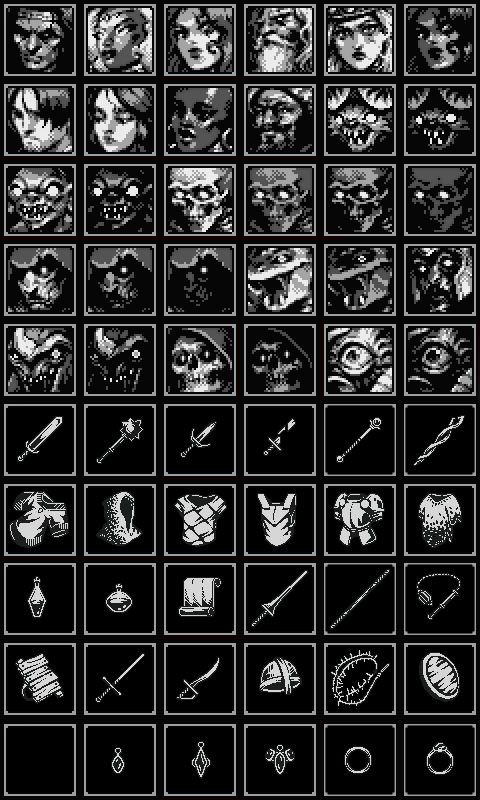
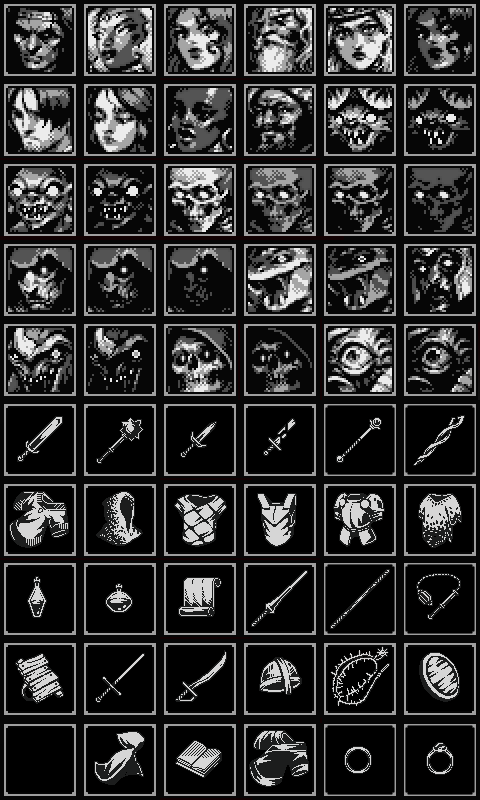
Character sheet layout

diff --git a/Item.cs b/Item.cs
@@ -6,6 +6,7 @@ namespace SINEATER;
 
 public interface IItem : IAbilitySource
 {
+    public (int, int) Picture { get; }
     public string Name { get; }
     public Glyph Glyph { get; }
     public bool CanBeUsed();
@@ -20,6 +21,7 @@ public class Pile : IAbilitySource, IItem
 {
     public List<IItem> Things { get; private set; } = []; 
     
+    public (int, int) Picture => ItemLibrary.EmptyUv;
     public string Name { get; } = "Pile";
     public Glyph Glyph { get; } = Glyph.Bw(1, 1);
     public bool CanBeUsed()
@@ -104,13 +106,15 @@ public class Pile : IAbilitySource, IItem
     }
 }
 
-public class Item(string name) : IItem
+public class Item(string name, (int, int) uv) : IItem
 {
     public string Name => name;
 
-    public Glyph Glyph => Glyph.Bw(0, 0);
+    public virtual (int, int) Picture => (uv.Item1, uv.Item2 + 5);
+    
+    public virtual Glyph Glyph => Glyph.Bw(0, 0);
 
-    public bool CanBeUsed()
+    public virtual bool CanBeUsed()
     {
         return true;
     }
@@ -143,7 +147,7 @@ public class Item(string name) : IItem
         yield break;
     }
 
-    public IEnumerable ApplyItemLanded(CombatMapScreen level, int x, int y)
+    public virtual IEnumerable ApplyItemLanded(CombatMapScreen level, int x, int y)
     {
         if (level.Floor.ContainsKey((x, y)))
         {
@@ -173,7 +177,7 @@ public class Item(string name) : IItem
         yield break;
     }
 
-    public string GetName()
+    public virtual string GetName()
     {
         return Name;
     }
@@ -181,5 +185,69 @@ public class Item(string name) : IItem
     public virtual Glyph GetIcon()
     {
         return Glyph;
+    }
+}
+
+public class ItemStack(Item item, int count) : Item(item.Name, item.Picture)
+{
+    public override (int, int) Picture => item.Picture;
+    public override Glyph Glyph => item.Glyph;
+
+    public override bool CanBeUsed()
+    {
+        if (count == 0) return false;
+        return item.CanBeUsed();
+    }
+
+    public override bool CanBeShattered()
+    {
+        if (count == 0) return false;
+        return item.CanBeShattered();
+    }
+
+    public override IEnumerable ApplyItemUsed(ICharacter character)
+    {
+        if (count == 0) yield break;
+        foreach (var i in item.ApplyItemUsed(character))
+        {
+            yield return i;
+        }
+    }
+
+    public override IEnumerable ApplyItemPickedUp(CombatMapScreen level, int x, int y, ICharacter character)
+    {
+        if (count == 0) yield break;
+        foreach (var i in item.ApplyItemPickedUp(level, x, y, character))
+        {
+            yield return i;
+        }
+    }
+
+    public override IEnumerable ApplyItemLanded(CombatMapScreen level, int x, int y)
+    {
+        if (count == 0) yield break;
+        foreach (var i in item.ApplyItemLanded(level, x, y))
+        {
+            yield return i;
+        }
+    }
+
+    public override IEnumerable ApplyItemShattered(CombatMapScreen level, int x, int y)
+    {
+        if (count == 0) yield break;
+        foreach (var i in item.ApplyItemShattered(level, x, y))
+        {
+            yield return i;
+        }
+    }
+
+    public override string GetName()
+    {
+        return $"{count}x {item.Name}";
+    }
+
+    public override Glyph GetIcon()
+    {
+        return item.Glyph;
     }
 }

diff --git a/CharacterSheetScreen.cs b/CharacterSheetScreen.cs
@@ -54,7 +54,7 @@ public class CharacterSheetScreen : IScreen
         var stack = _game.ScreenStack.ToArray();
         stack[1].Draw(gameTime);
         
-        var start = new Vector2(1, 0);
+        var start = new Vector2(1, 3);
         var end = new Vector2(25, 17);
         _game.Layers["mrmo"].SetRect(start - Vector2.One, end + Vector2.One, ' ');
         _game.Layers["ascii"].SetRect(new Vector2(start.X * 2 - 1, start.Y - 1), new Vector2(end.X * 2 + 1, end.Y + 1), ' ');
@@ -73,41 +73,38 @@ public class CharacterSheetScreen : IScreen
         });
         
         var chr = _game.Party.Characters[_charIndex];
-        _game.Layers["ascii"].Set((int)start.X * 2 + 15, (int)start.Y + 1, $"CHARACTER PROFILE - {chr.Job}");
+        //_game.Layers["ascii"].Set((int)start.X * 2 + 15, (int)start.Y + 1, $"CHARACTER PROFILE - {chr.Job}");
         var prt = chr.GetPortait();
-        _game.Layers["portrait"].Set(0, 0, new Glyph(prt.Item1, prt.Item2, Color.Black, chr.Tint));
+        _game.Layers["portrait"].Set(1, 1, new Glyph(prt.Item1, prt.Item2, Color.Black, chr.Tint));
 
+        var (u, v) = ItemLibrary.EmptyUv;
         if (chr.LeftWeapon is { } lw)
         {
-            var (u, v) = lw.Picture;
-            _game.Layers["porsmol"].Set(1, 2, new Glyph(u, v, Color.Black, chr.Tint));
+            (u, v) = lw.Picture;
         }
-        else
-        {
-            var (u, v) = ItemLibrary.EmptyUv;
-            _game.Layers["porsmol"].Set(1, 2, new Glyph(u, v, Color.Black, chr.Tint));
-        }
+        _game.Layers["porsmol"].Set(1, 2, new Glyph(u, v, Color.Black, chr.Tint));
         
+        (u, v) = ItemLibrary.EmptyUv;
         if (chr.Armor is { } arm)
         {
-            var (u, v) = arm.Picture;
-            _game.Layers["porsmol"].Set(2, 2, new Glyph(u, v, Color.Black, chr.Tint));
+            (u, v) = arm.Picture;
+            
         }
-        else
+        _game.Layers["porsmol"].Set(2, 4, new Glyph(u, v, Color.Black, chr.Tint));
+
+        (u, v) = ItemLibrary.EmptyUv;
+        if (chr.Item is { } item)
         {
-            var (u, v) = ItemLibrary.EmptyUv;
-            _game.Layers["porsmol"].Set(2, 2, new Glyph(u, v, Color.Black, chr.Tint));
+            (u, v) = item.Picture;
+            
         }
-        
+        _game.Layers["porsmol"].Set(3, 4, new Glyph(u, v, Color.Black, chr.Tint));
+
+        (u, v) = ItemLibrary.EmptyUv;
         if (chr.RightWeapon is { } rw)
         {
-            var (u, v) = rw.Picture;
-            _game.Layers["porsmol"].Set(3, 2, new Glyph(u, v, Color.Black, chr.Tint));
+            (u, v) = rw.Picture;
         }
-        else
-        {
-            var (u, v) = ItemLibrary.EmptyUv;
-            _game.Layers["porsmol"].Set(3, 2, new Glyph(u, v, Color.Black, chr.Tint));
-        }
+        _game.Layers["porsmol"].Set(4, 2, new Glyph(u, v, Color.Black, chr.Tint));
     }
 }

diff --git a/PartyMember.cs b/PartyMember.cs
@@ -165,6 +165,7 @@ public abstract class Character : ICharacter
     public Weapon? LeftWeapon = null;
     public Weapon? RightWeapon = null;
     public Armor? Armor = null;
+    public IItem? Item = null;
     public Ability? Ability = null;
     public readonly List<Trait> Traits = [];
     public Inventory Inventory { get; set; } = new();
@@ -235,7 +236,6 @@ public abstract class Character : ICharacter
     {
         return Job.ToString();
     }
-
     
     public virtual (int, int) GetPortait()
     {
@@ -280,10 +280,20 @@ public abstract class Character : ICharacter
     {
         Armor = armor;
     }
+    
+    public void EquipItem(IItem? item)
+    {
+        Item = item;
+    }
 
     public void RemoveArmor()
     {
         this.EquipArmor(null);
+    }
+    
+    public void RemoveItem()
+    {
+        this.EquipItem(null);
     }
 
     public IEnumerable AsAttacker_ApplyDiceCountModifiers(CombatFlow flow)
@@ -430,7 +440,7 @@ public class PartyMember : Character
 
 public record struct Party
 {
-    private static readonly Color[] Colors = [Color.Yellow, Color.GreenYellow, Color.CornflowerBlue, Color.Crimson];
+    private static readonly Color[] Colors = [Color.Yellow, Color.GreenYellow, Color.CornflowerBlue, Color.Coral];
     public PartyMember[] Characters = new PartyMember[4];
 
     public Party(ActionPoints AP)
@@ -483,8 +493,7 @@ public record struct Party
                     Characters[i].EquipLeftWeapon(ItemLibrary.NeedleSword);
                     Characters[i].EquipRightWeapon(ItemLibrary.ScrollTome);
                     Characters[i].EquipArmor(ItemLibrary.BreastPlate);
-                    for (var n = 0; n < 3; n++)
-                        Characters[i].Inventory.Put(new PotionBloodReliquary());
+                    Characters[i].EquipItem(new ItemStack(new PotionBloodReliquary(), 3));
                     break;
                 case ECharacterClass.Priest:
                     Characters[i].EquipLeftWeapon(ItemLibrary.ThornWhip);
@@ -492,8 +501,11 @@ public record struct Party
                     Characters[i].Stats.Vigor++;
                     break;
                 case ECharacterClass.Thief:
-                    Characters[i].EquipLeftWeapon(ItemLibrary.BrokenSword);
+                    Characters[i].EquipLeftWeapon(ItemLibrary.Gladius);
+                    Characters[i].EquipArmor(ItemLibrary.Cloak);
+                    Characters[i].EquipItem(new PotionGhylagsTear());
                     Characters[i].Traits.Add(new TraitSkilled());
+                    Characters[i].EquipItem(ItemLibrary.BrokenSword);
                     Characters[i].Stats.Vigor -= 1;
                     if (Characters[i].Stats.Vigor <= 0) Characters[i].Stats.Vigor = 1;
                     break;

diff --git a/ItemLibrary.cs b/ItemLibrary.cs
@@ -6,7 +6,6 @@ public static class ItemLibrary
     public static readonly Weapon Gladius = new Weapon("Gladius", 3, EWeightClass.Medium, 3, (0, 0));
     public static readonly Weapon Mace = new Weapon("Mace", 4, EWeightClass.Heavy, 3, (1, 0));
     public static readonly Weapon Dagger = new Weapon("Dagger", 2, EWeightClass.Light, 5, (2, 0));
-    public static readonly Weapon BrokenSword = new Weapon("Sword of Old", 2, EWeightClass.Medium, 6, (3, 0));
     public static readonly Weapon Scepter = new Weapon("Scepter", 4, EWeightClass.Heavy, 3, (4, 0));
     public static readonly Weapon WizardStaff = new Weapon("Wizard Staff", 2, EWeightClass.Heavy, 1, (5, 0));
     public static readonly Weapon NeedleSword = new Weapon("Needle Sword", 4, EWeightClass.Large, 5, (3, 2));
@@ -14,15 +13,18 @@ public static class ItemLibrary
     public static readonly Weapon HeavyFlail = new Weapon("Heavy Flail", 3, EWeightClass.Heavy, 3, (5, 2));
     public static readonly Weapon Claymore = new Weapon("Claymore", 4, EWeightClass.Large, 4, (1, 3));
     public static readonly Weapon Cutlass = new Weapon("Cutlass", 3, EWeightClass.Medium, 1, (2, 3));
-    public static readonly Weapon ScrollTome = new Weapon("Scroll Tome", 1, EWeightClass.Heavy, 7, (2, 2));
+    public static readonly Weapon ScrollTome = new Weapon("Scroll Tome", 1, EWeightClass.Heavy, 7, (2, 4));
     public static readonly Weapon ThornWhip = new Weapon("Thorn Whip", 4, EWeightClass.Heavy, 5, (4, 3));
     
+    public static readonly Armor Cloak = new Armor("Cloak", 1, EWeightClass.Light, 1, (1, 4));
     public static readonly Armor Chainmail = new Armor("Chainmail", 3, EWeightClass.Medium, 1, (1, 1));
-    public static readonly Armor Tunic = new Armor("Tunic", 3, EWeightClass.Medium, 2, (0, 1));
+    public static readonly Armor Tunic = new Armor("Tunic", 2, EWeightClass.Medium, 5, (0, 1));
     public static readonly Armor PlateArmor = new Armor("Plate Armor", 4, EWeightClass.Heavy, 5, (4, 1));
     public static readonly Armor LeatherArmor = new Armor("Leather Armor", 3, EWeightClass.Medium, 4, (2, 1));
     public static readonly Armor BreastPlate = new Armor("Breast Plate", 3, EWeightClass.Medium, 3, (3, 1));
-    public static readonly Armor Robe = new Armor("Robe", 2, EWeightClass.Medium, 4, (5, 1));
+    public static readonly Armor Robe = new Armor("Robe", 2, EWeightClass.Light, 4, (5, 1));
     
     public static readonly Shield RoundShield = new Shield("RoundShield", 2, EWeightClass.Medium, 4, (5, 3));
+    
+    public static readonly Item BrokenSword = new Item("Sword of Old", (3, 0));
 }

diff --git a/Potion.cs b/Potion.cs
@@ -4,7 +4,7 @@ using Microsoft.Xna.Framework;
 
 namespace SINEATER;
     
-public class Potion(string name) : Item(name)
+public class Potion(string name, (int, int) uv) : Item(name, uv)
 {
     public override bool CanBeShattered()
     {
@@ -62,7 +62,7 @@ public class Potion(string name) : Item(name)
     }
 }
 
-public class PotionBloodReliquary() : Potion("Blood Reliquary")
+public class PotionBloodReliquary() : Potion("Blood Reliquary", (0, 2))
 {
     public override IEnumerable ApplyOnSplat(CombatMapScreen level, Dictionary<(int, int), ICharacter> fields, int x, int y)
     {
@@ -118,7 +118,7 @@ public class PotionBloodReliquary() : Potion("Blood Reliquary")
     }
 }
 
-public class GhylagsTear() : Potion("Ghylag's Tear")
+public class PotionGhylagsTear() : Potion("Ghylag's Tear", (1, 2))
 {
     public override IEnumerable ApplyOnSplat(CombatMapScreen level, Dictionary<(int, int), ICharacter> fields, int x, int y)
     {

diff --git a/ExplorationMapScreen.cs b/ExplorationMapScreen.cs
@@ -234,7 +234,7 @@ public class ExplorationMapScreen : IScreen
             yield return new ShowPopupWindowAndWaitForKey(
                 (_, bnd) =>
                 {
-                    IItem pot = Rnd.Instance.D4 < 2 ? new PotionBloodReliquary() : new GhylagsTear();
+                    IItem pot = Rnd.Instance.D4 < 2 ? new PotionBloodReliquary() : new PotionGhylagsTear();
                     bnd.Add($"{_locations[(x, y)].GetName()} You found...");
                     bnd.Newline();
                     bnd.Add($"  a {pot}!");

diff --git a/Bestiary.cs b/Bestiary.cs
@@ -41,7 +41,7 @@ public static class Bestiary
             Behaviors = [ new BehaviorAggro(), new BehaviorFlyAbout() ],
         };
         if (Rnd.Instance.D4 > gob.Sin)
-            gob.LeftWeapon = ItemLibrary.BrokenSword;
+            gob.LeftWeapon = ItemLibrary.Dagger;
         gob.RightWeapon = ItemLibrary.Dagger;
         return gob;
     }
